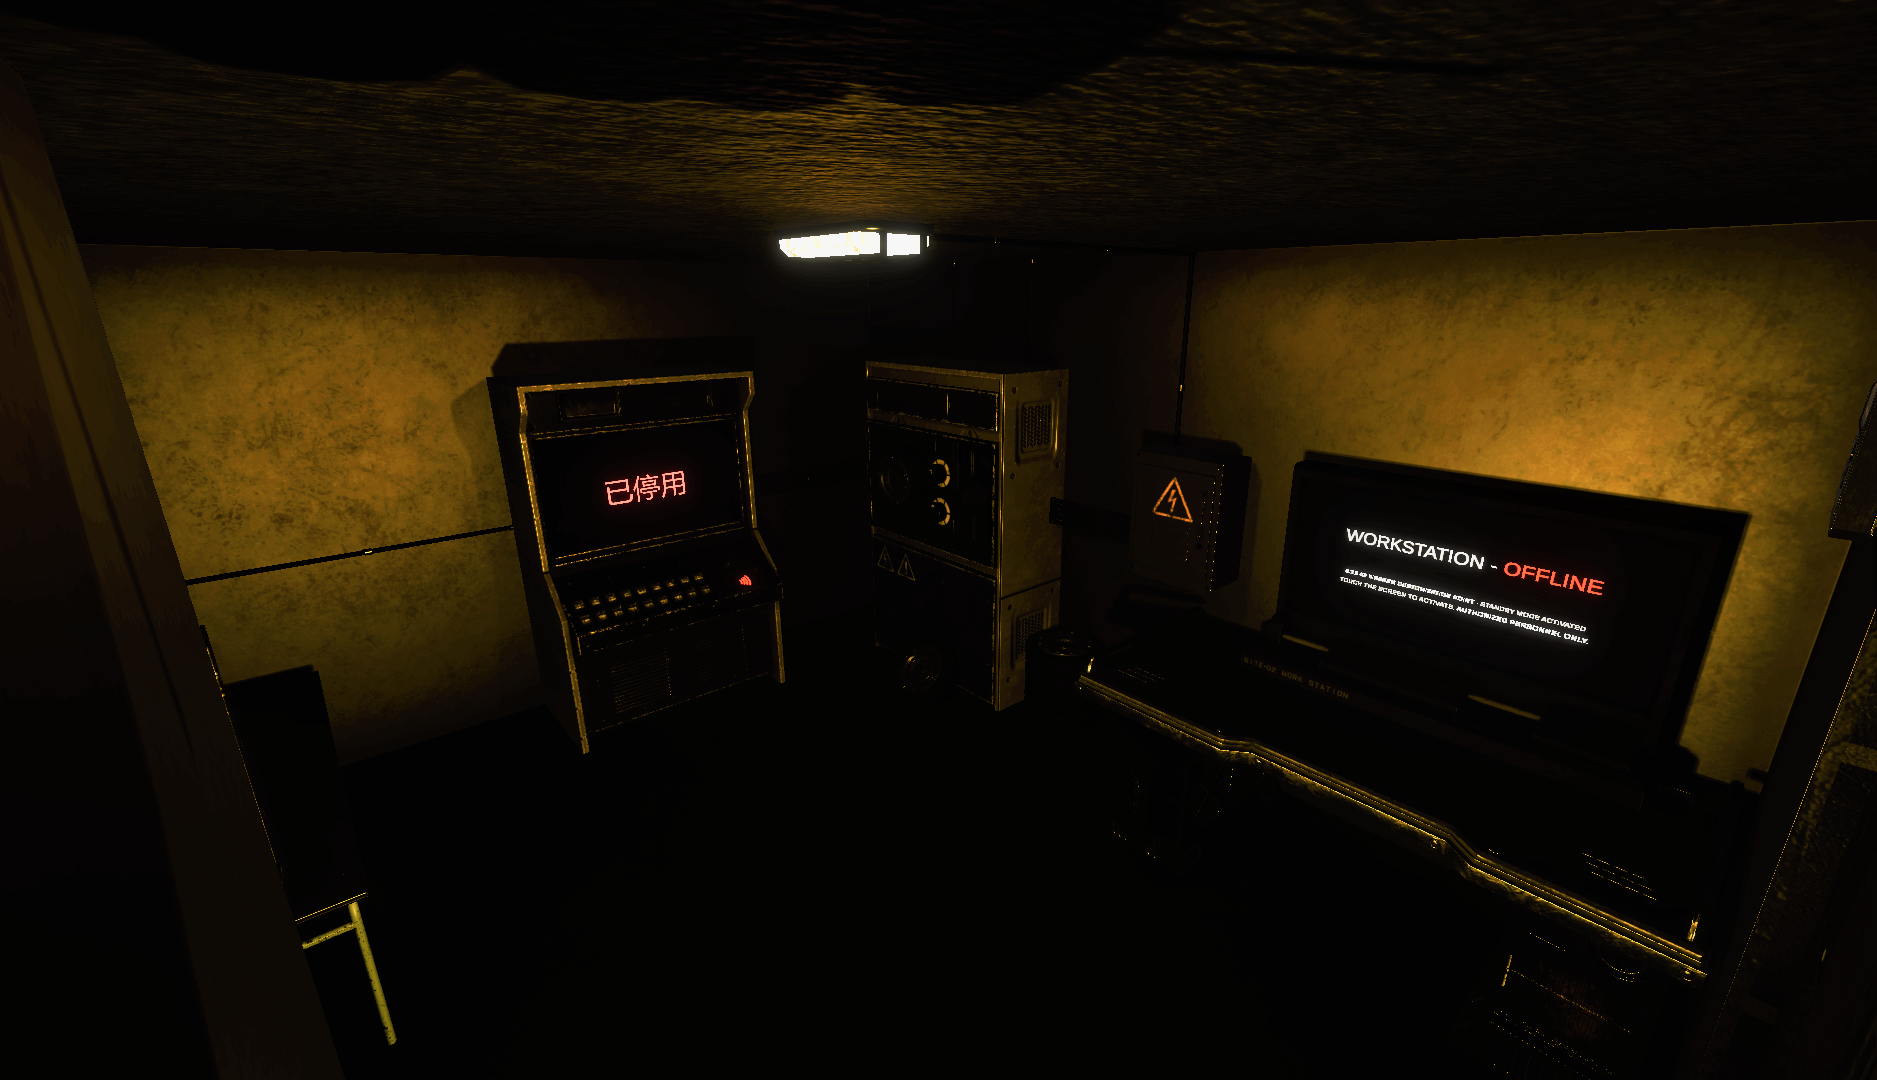
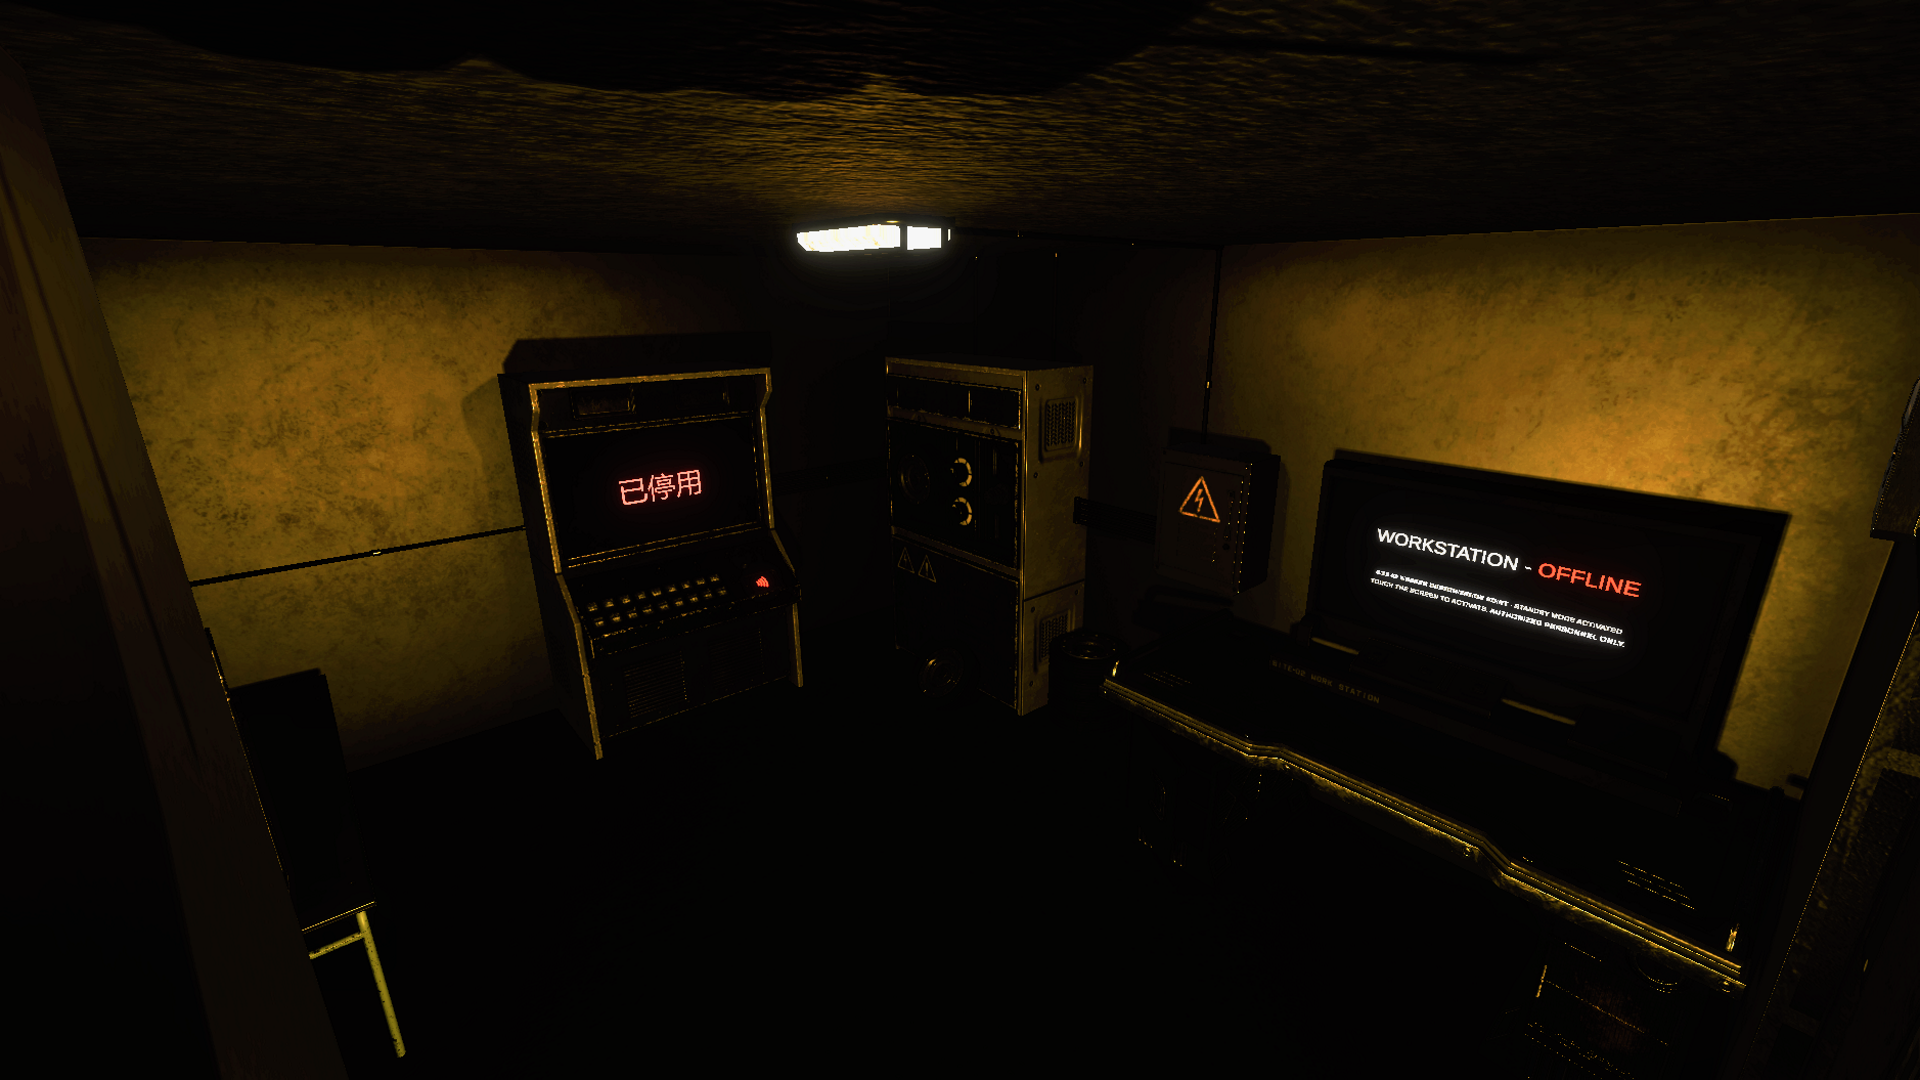
1.1 小修改
1.1 小修改
修改 圓角滑條
修復 圖片大小

diff --git a/css/loader.css b/css/loader.css
@@ -99,5 +99,5 @@
 }
 ::-webkit-scrollbar {width: 10px;}
 ::-webkit-scrollbar-track-piece{ background: #fff; }
-::-webkit-scrollbar-thumb { background: #3b3b3b; }
+::-webkit-scrollbar-thumb { background: #3b3b3b; border-radius: 5px;}
 ::-webkit-scrollbar-thumb:hover { background: #414141d5; }
